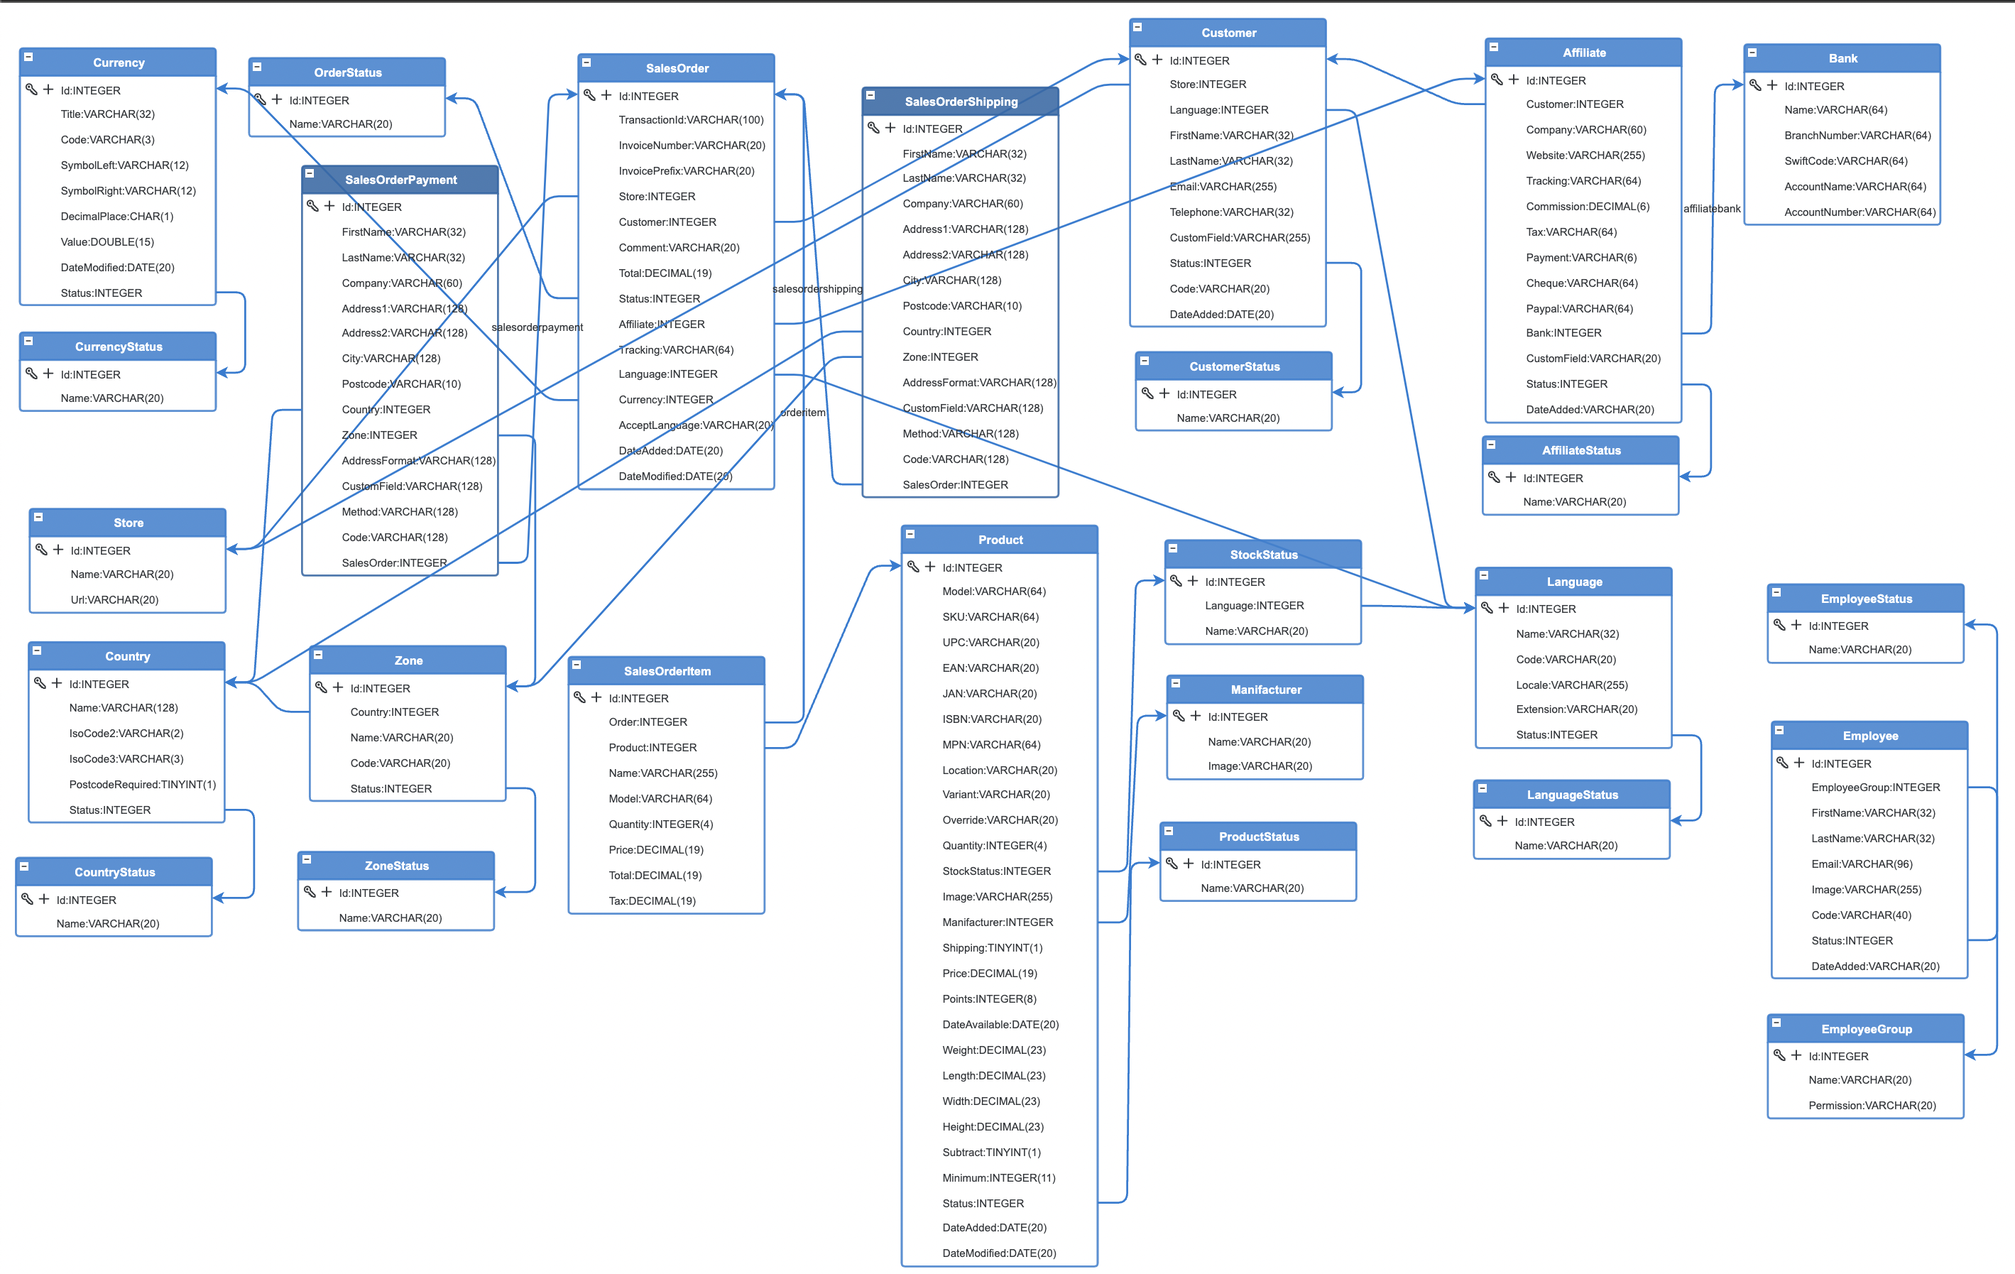
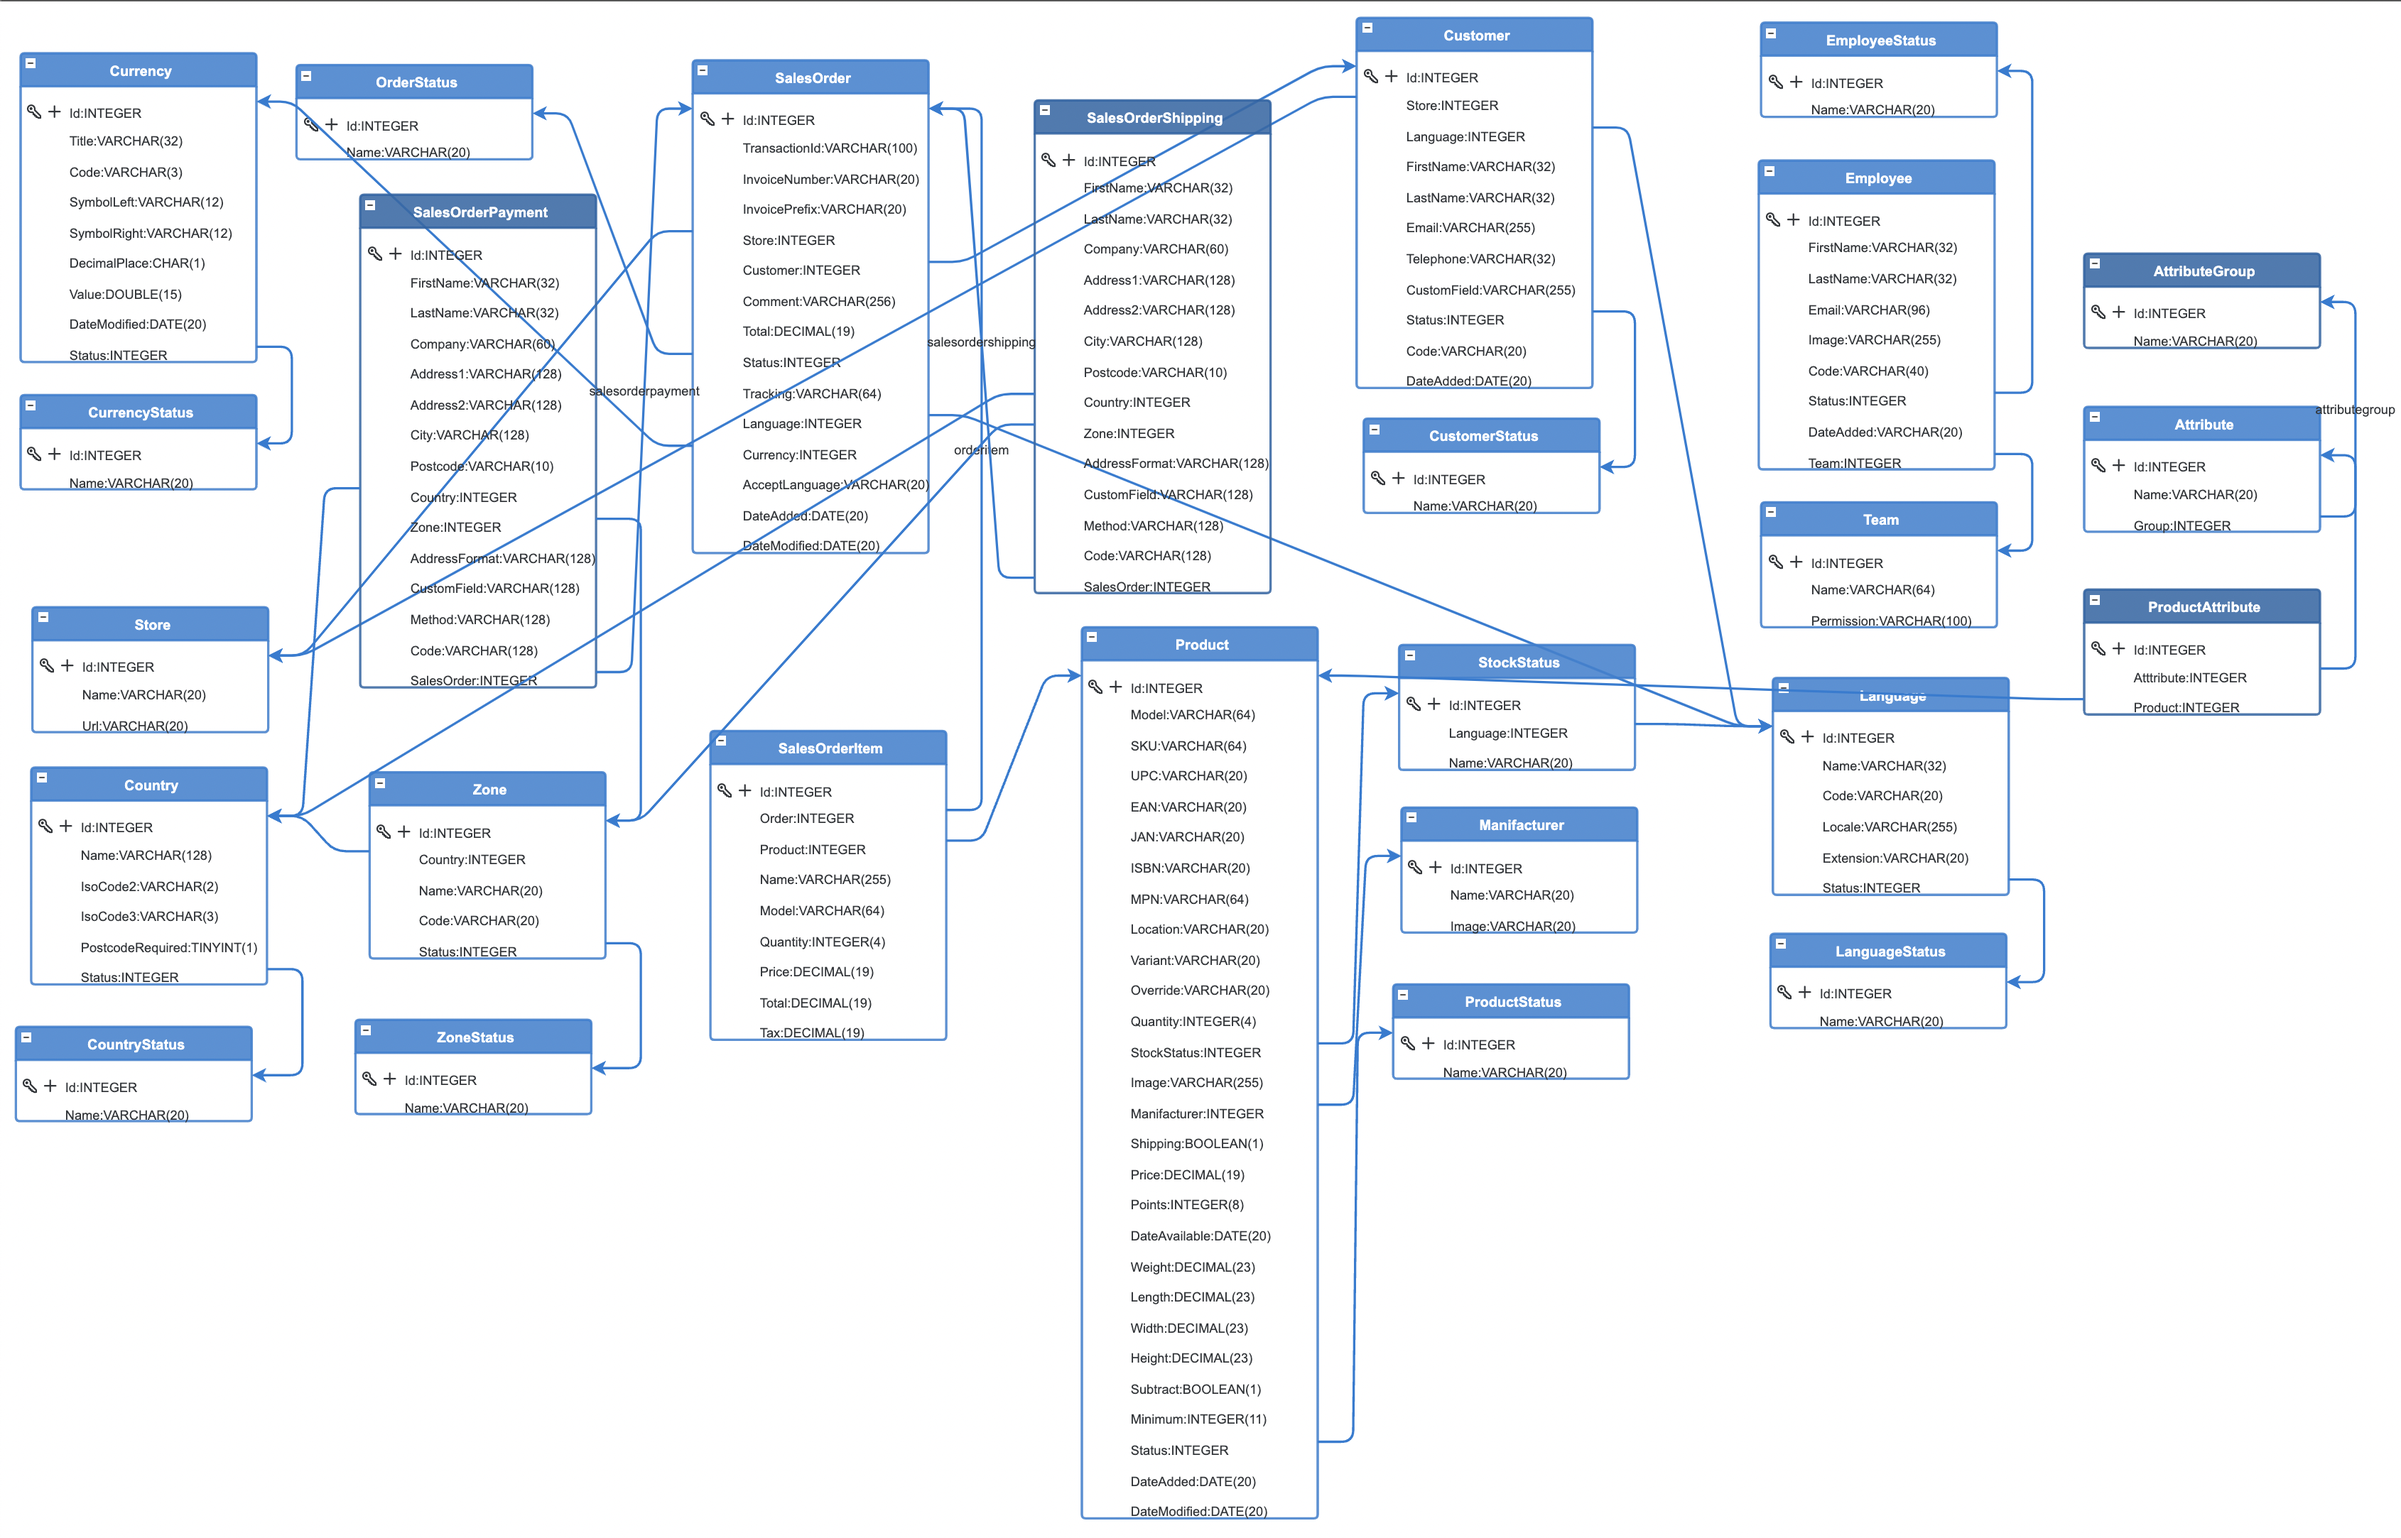
Added new model and attributes in readme

diff --git a/README.md b/README.md
@@ -45,6 +45,10 @@ Warehouse Management
 
 ![customers](images/portunus-customers.png)
 
+##### Attributes
+
+![attributes](images/portunus-attributes.png)
+
 ##### Settings
 
 ![settings](images/portunus-settings.png)
